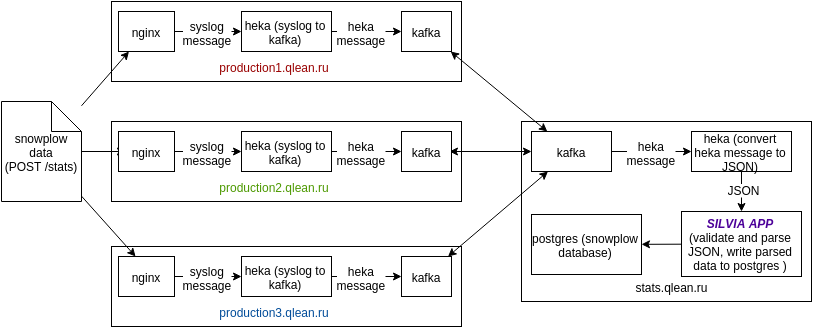
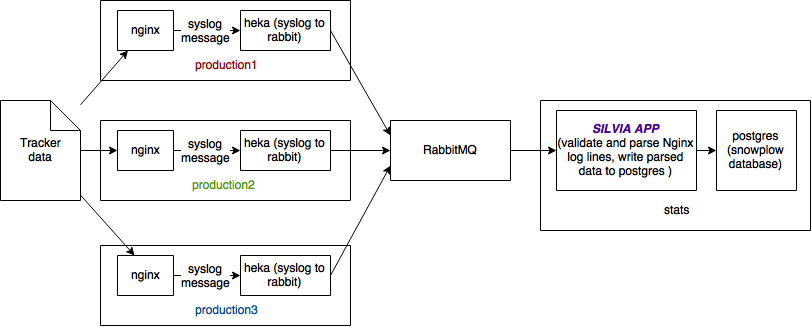
More refactoring and Readme updates

diff --git a/worker.go b/worker.go
@@ -9,12 +9,20 @@ import(
 )
 
 type(
+	Stats struct {
+		SuccessRing    *Ring
+		FailRing       *Ring
+		StartTime      time.Time
+		RabbitHealth   bool
+		PostgresHealth bool
+	}
+
 	Config struct {
-		Port       string
-		PgConnect  string `yaml:"pg_connect"`
-		RingSize   int    `yaml:"ring_size"`
-		RabbitAddr string `yaml:"rabbit_addr"`
-		RabbitPort string `yaml:"rabbit_port"`
+		Port       string `consul:"port"`
+		PgConnect  string `consul:"pg_connect"`
+		RingSize   int    `consul:"ring_size"`
+		RabbitAddr string `consul:"rabbit_addr"`
+		RabbitPort string `consul:"rabbit_port"`
 	}
 
 	Worker struct {
@@ -25,14 +33,22 @@ type(
 		AdjustEventBus chan *AdjustEvent
 		SnowplowEventBus chan *SnowplowEvent
 	}
+
+	Consumer interface {
+		Consume()
+	}
+
+	Transformer interface {
+		Transform()
+	}
+
+	Writer interface {
+		Write()
+	}
 )
 
 
 func (config *Config) load() error {
-	dbmap = initDb()
-
-	defer dbmap.Db.Close()
-
 	startTime = time.Now()
 
 
@@ -53,6 +69,7 @@ func (worker *Worker) generator() {
 				go rabbit.NewChannel(conn)
 				select {
 					case ch := <- rabbit.ChannelChan:
+						worker.Stats.RabbitHealth = true
 						wg := sync.WaitGroup()
 							go worker.AdjustRequestBus.Consume(ch, wg)
 							go worker.SnowplowRequestBus.Consume(ch, wg)
@@ -66,6 +83,7 @@ func (worker *Worker) generator() {
 			case <- rabbit.ConnectionFailChan:
 				log.Println("Can't connect to RabbitMQ! Retry after 5s")
 		}
+		worker.Stats.RabbitHealth = false
 		time.Sleep(5*time.Second)
 	}
 }
@@ -97,6 +115,7 @@ func (worker *Worker) capacitor() {
 		go postgres.Connect(worker.Config)
 		select {
 			case conn := <- postgres.ConnChan:
+				worker.Stats.PostgresHealth = true
 				for {
 					select {
 						case adjustEvent := <- worker.AdjustEventBus:
@@ -118,6 +137,7 @@ func (worker *Worker) capacitor() {
 			case <- postgres.ConnFailChan:
 				log.Println("Can't connect to PostgreSQL! Retry after 5s")
 		}
+		worker.Stats.PostgresHealth = false
 		time.Sleep(5*time.Second)
 	}
 }

diff --git a/ring.go b/ring.go
@@ -1,28 +1,27 @@
 package main
 
 type RingItem struct {
-	Body     string
-	Event    *Event
-	Info     string
+	Body          string
+	AdjustEvent   *AdjustEvent
+	SnowplowEvent *SnowplowEvent
+	Info          string
 }
 
 type Ring struct {
 	Ring  []*RingItem
 	Total int
+	Size  int
 }
 
-var successRing *Ring = &Ring{}
-var failRing *Ring = &Ring{}
-
-func (ring *Ring) Add(body string, nginxlog *NginxLog, event *Event, info string) {
+func (ring *Ring) AddAdjust(body string, nginxlog *NginxLog, event interface, info string) {
 	ringItem := &RingItem{
 		Body: body,
-		Event: event,
+		AdjustEvent: event,
 		Info: info,
 	}
 
 	ring.Ring = append(ring.Ring, ringItem)
 	ring.Total++
 
-	if len(ring.Ring) > serverConfig.RingSize { ring.Ring = ring.Ring[1:] }
+	if len(ring.Ring) > ring.Size { ring.Ring = ring.Ring[1:] }
 }

diff --git a/postgres.go b/postgres.go
@@ -8,18 +8,23 @@ import(
 	_ "github.com/lib/pq"
 )
 
+type Postgres struct {
+	ConnChan     chan *gorp.DbMap
+	ConnFailChan chan bool
+}
+
 var dbmap *gorp.DbMap
 
-func initDb() *gorp.DbMap {
-	db, err := sql.Open("postgres", serverConfig.PgConnect)
+func (postgres *Postgres) Connect(config *Worker.Config) {
+	db, err := sql.Open("postgres", config.PgConnect)
 	if err != nil {
-		log.Fatalln("Failed to connect postgres:", err)
+		postgres.ConnFailChan <- true
+		return
 	}
 
 	dbmap := &gorp.DbMap{Db: db, Dialect: gorp.PostgresDialect{}}
-
 	dbmap.AddTableWithNameAndSchema(SnowplowEvent{}, "atomic", "events").SetKeys(true, "Id")
 	dbmap.AddTableWithNameAndSchema(AdjustEvent{}, "adjust", "events").SetKeys(true, "Id")
 
-	return dbmap
+	postgres.ConnChan <- dbmap
 }

diff --git a/snowplow.go b/snowplow.go
@@ -386,7 +386,7 @@ func (snowplowRequest *SnowplowRequest) Transform() (event *SnowplowEvent, err e
 	return
 }
 
-func rabbitConsumer(ch *amqp.Channel, queue string, performerFunc func()) {
+func (snowplowRequestBus chan SnowplowRequestBus) Consume() {
 	q, err := ch.QueueDeclare("snowplow", true, false, false, false, nil)
 	if err != nil {
 		log.Println(err, "Failed to declare a queue")

diff --git a/README.md b/README.md
@@ -1,4 +1,16 @@
-# qlean.silvia
-Smart data pipeline from heka to postgres
+# Silvia
+Transforms analytics trackers data (Snowplow and Adjust) and writes it to PostgreSQL.
 
-![Pipeline visualization](https://github.com/Qlean/qlean.silvia/blob/master/data-pipeline.png)
+## Dependencies
+
+- Nginx version > 1.7.1 (with syslog support)
+- [Mozilla's Heka](https://github.com/mozilla-services/heka) (With SysLog inputs, decoders and AMQP Outputs)
+- RabbitMQ (with "snowplow" and "adjust" queues and exchanges)
+- Consul (for configuration)
+- PostgreSQL (events strorage)
+
+## Deployment map
+![Infrastructure visualistaion](data-pipeline.png)
+
+## App structure
+![Goroutines communication](goroutines.png)
